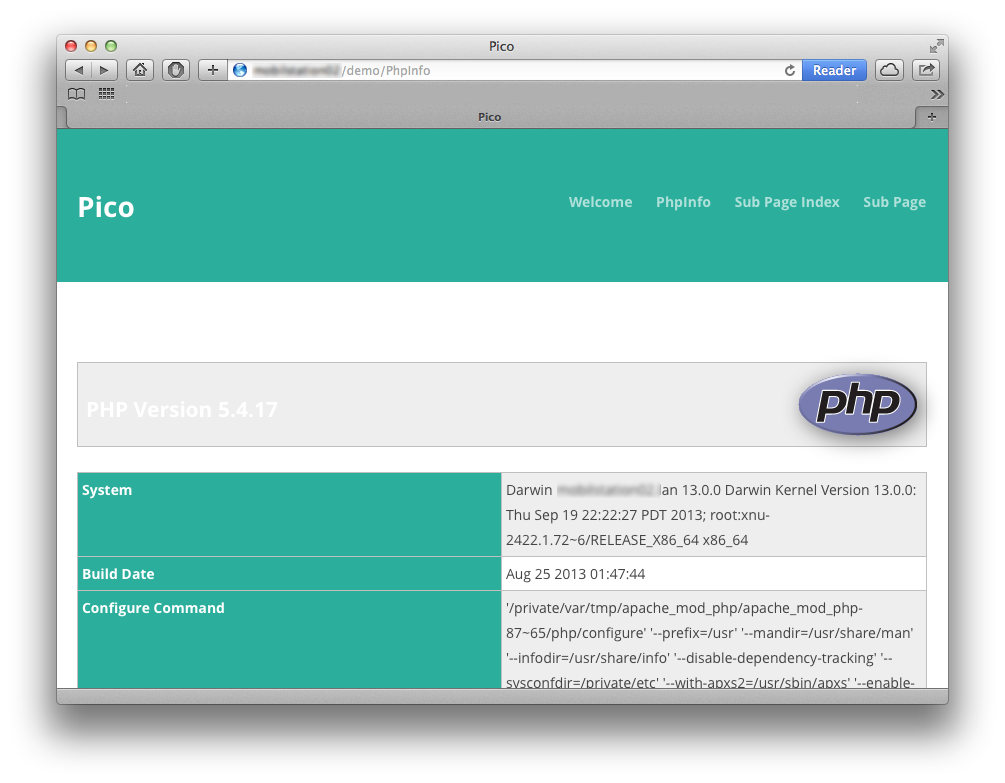
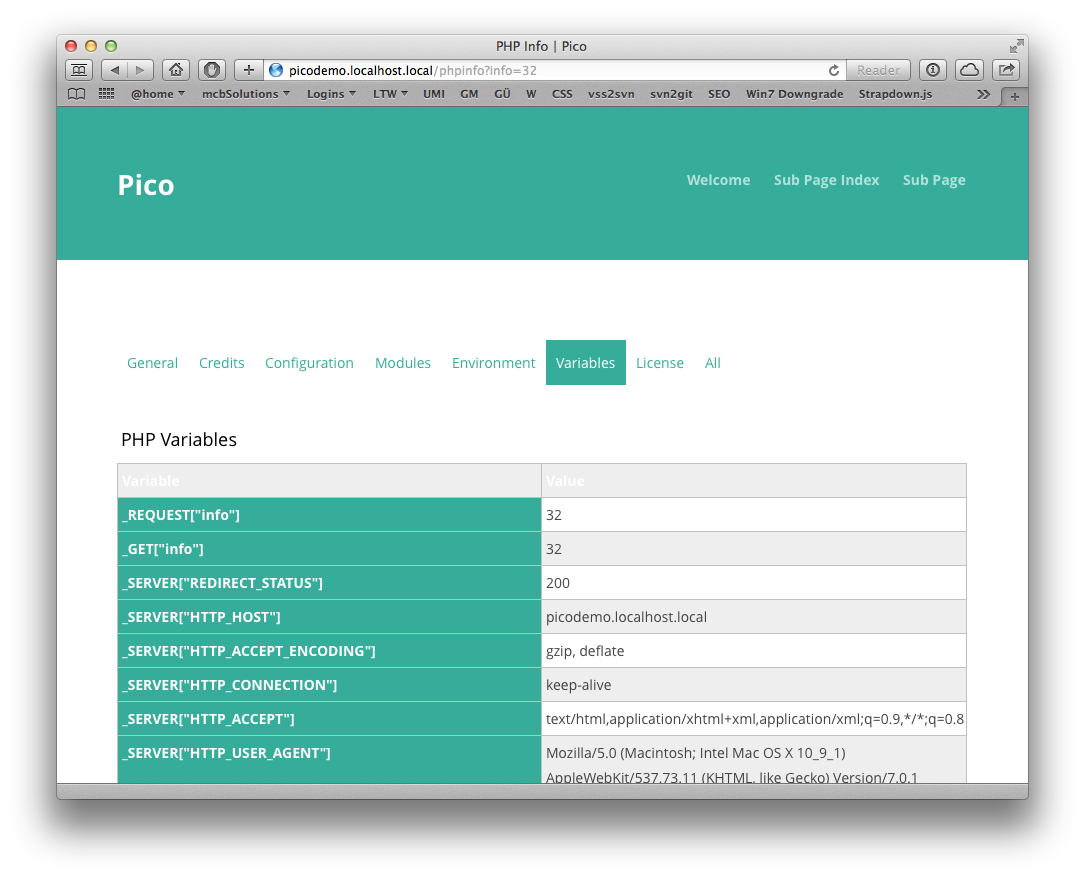
v0.4
+ Added tabs
+ Added phpcredits

diff --git a/mcb_PhpInfo/style.css b/mcb_PhpInfo/style.css
@@ -9,9 +9,10 @@
 #phpinfo th {font-weight: bolder}
 #phpinfo h1 {font-size: 150%; padding: 4px;}
 #phpinfo h2 {font-size: 125%;}
-#phpinfo .h, #phpinfo .p, #phpinfo .e {text-align: left;color: white;font-weight: bold; padding: 4px;}
+#phpinfo .e {text-align: left;color: white;font-weight: bold; padding: 4px;}
+#phpinfo h1.p {text-align: left; color: gray; font-weight: bold; padding: 4px;}
 #phpinfo .e {background-color: #2EAE9B; min-width: 200px;}
-#phpinfo .h {background-color: #2EAE9B; vertical-align: middle;}
+#phpinfo .h {background-color: #2EAE9B; vertical-align: middle; color: gray;}
 #phpinfo .v { min-width: 200px;}
 #phpinfo img {
    /* Source: http://stackoverflow.com/a/12921987 */
@@ -21,3 +22,16 @@
    filter: "progid:DXImageTransform.Microsoft.Dropshadow(OffX=4, OffY=4, Color='#444')";
 }
 #phpinfo hr {display: none}
+
+/* Navigation
+ul.nav-tabs {display: table; list-style-type: none; margin: 0; padding: 0;}
+ul.nav-tabs>li {float: left;padding: 10px;}
+ul.nav-tabs>li:hover {background-color: #fff;}
+ul.nav-tabs>li.active {background-color: #2EAE9B; }
+ul.nav-tabs>li.active a {color: #fff;}
+ul { overflow: auto; }
+ul.nav-tabs li:hover > ul {display: block;position: absolute;background-color: #fff;}
+ul.dropdown-menu {display: none;list-style: none;padding: 0;}
+ul.dropdown-menu li {float: none;position: relative;background-color: #2EAE9B;padding: 5px;padding-left: 10px;padding-right: 10px;}
+ul.dropdown-menu li a {color: #fff;}
+ul.dropdown-menu li a:hover {color:#000;}

diff --git a/mcb_PhpInfo/mcb_phpinfo.php b/mcb_PhpInfo/mcb_phpinfo.php
@@ -2,48 +2,137 @@
 
 /**
  * @see README.mb for further details
- * 
+ *
  * @package Pico
  * @subpackage mcb PhpInfo
- * @version 0.3
+ * @version 0.4
  * @author mcbSolutions.at <dev@mcbsolutions.at>
  */
 class mcb_PhpInfo {
-   
+
 	private $url_is_phpinfo;
-   
+	private $use_section = false;
+
+   private $info = array(
+         INFO_GENERAL => 'General',
+         INFO_CREDITS => 'Credits',
+         INFO_CONFIGURATION => 'Configuration',
+         INFO_MODULES => 'Modules',
+         INFO_ENVIRONMENT => 'Environment',
+         INFO_VARIABLES => 'Variables',
+         INFO_LICENSE => 'License',
+         INFO_ALL => 'All',
+      );
+   private $credit = array(
+         CREDITS_GENERAL => 'General',
+//       CREDITS_FULLPAGE => 'Full page',
+         CREDITS_DOCS => 'Docs',
+         CREDITS_MODULES => 'Modules',
+         CREDITS_GROUP => 'Group',
+         CREDITS_SAPI => 'Sapi',
+         CREDITS_ALL => 'All',
+      );
+   public function config_loaded(&$settings)
+   {
+      if(isset($settings['mcb_use_section']))
+      	$this->use_section = &$settings['mcb_use_section'];
+	}
 	public function request_url(&$url)
 	{
-	   $this->url_is_phpinfo = strtolower(str_replace(" ", "", $url)) == 'phpinfo';
+      $this->url_is_phpinfo = strpos(strtolower($url), 'phpinfo') !== false;
 	}
-	
+
 	public function after_404_load_content(&$file, &$content)
 	{
+	   if(!$this->url_is_phpinfo)
+         return;
+
 		$content = "";
 	}
-	
+
 	public function after_load_content(&$file, &$content)
 	{
       if(!$this->url_is_phpinfo)
          return;
-      
+
+
+		if($this->use_section) {
+	      $info = isset($_GET['info'  ]) ? $_GET['info'  ] : INFO_ALL;
+	      $cred = isset($_GET['credit']) ? $_GET['credit'] : CREDITS_GENERAL;
+
+	      $content .= '<ul class="nav nav-tabs nav-justified">';
+	      foreach ($this->info as $key => $value) {
+	         if($key==INFO_CREDITS) {
+	            if($key==$info) $content .= "<li class=\"active dropdown\"><a class=\"dropdown-toggle\" data-toggle=\"dropdown\" href=\"#\">$value <span class=\"caret\"></span></a>";
+	            else            $content .= "<li class=\"       dropdown\"><a class=\"dropdown-toggle\" data-toggle=\"dropdown\" href=\"#\">$value <span class=\"caret\"></span></a>";
+
+	            $content .= '<ul class="dropdown-menu" role="menu">';
+	            foreach ($this->credit as $ck => $cv) {
+	               if($ck==$cred) $content .= "<li class=\"active\"><a>$cv</a></li>";
+	               else           $content .= "<li><a href=\"?info=$key&amp;credit=$ck\">$cv</a></li>";
+	            }
+	            $content .= '</ul></li>';
+	         } else
+	         if($key==$info) $content .= "<li class=\"active\"><a                    >$value</a></li>";
+	         else            $content .= "<li                 ><a href=\"?info=$key\">$value</a></li>";
+	      }
+	      $content .= '</ul>';
+      } else {
+      	$info = INFO_ALL;
+      }
+
+      if($info == INFO_CREDITS) $content .= $this->phpCredit($cred);
+      else                      $content .= $this->phpInfo($info);
+   }
+
+   private function phpInfo($info = INFO_ALL)
+   {
       // get the info
       ob_start();
-      phpinfo();
+      phpinfo($info);
       $phpinfo = ob_get_contents();
       ob_end_clean();
-      
+
       // modify the div
-      $dom = DOMDocument::loadHTML($phpinfo);
+      // http://stackoverflow.com/questions/8218230/php-domdocument-loadhtml-not-encoding-utf-8-correctly
+      $dom = DOMDocument::loadHTML('<?xml encoding="utf-8" ?>' . $phpinfo);
       $div = $dom->getElementsByTagname('div')->item(0);
       $div->removeAttribute('class');
       $div->setAttribute('id', 'phpinfo');
 
-      $content .= $dom->saveHTML($div);
+      return $dom->saveHTML($div);
    }
-   /* debug   public function after_render(&$output)
+
+   private function phpCredit($what = CREDITS_ALL)
+   {
+      $what = $what & ~CREDITS_FULLPAGE;
+
+      // get the info
+      ob_start();
+      phpcredits($what);
+      $phpinfo = ob_get_contents();
+      ob_end_clean();
+
+      // modify the div
+      // http://stackoverflow.com/questions/8218230/php-domdocument-loadhtml-not-encoding-utf-8-correctly
+      $dom = DOMDocument::loadHTML('<?xml encoding="utf-8" ?>' . "<div id=\"phpinfo\">$phpinfo</div>");
+      $div = $dom->getElementsByTagname('div')->item(0);
+
+      $caption = $dom->getElementsByTagname('h1')->item(0);
+      $caption->parentNode->removeChild($caption);
+
+      return $dom->saveHTML($div);
+   }
+   public function before_render(&$twig_vars, &$twig, &$template)
+   {
+      if(!$this->url_is_phpinfo)
+         return;
+
+      if($twig_vars['meta']['title'] == '') $twig_vars['meta']['title'] = "PHP Info";
+   }
+   /* debug
+   public function after_render(&$output)
    {
       $output = $output . "<pre style=\"background-color:white;\">".htmlentities(print_r($this,1))."</pre>";
    }*/
-
 }

diff --git a/mcb_PhpInfo/README.md b/mcb_PhpInfo/README.md
@@ -1,22 +1,35 @@
 PHP Info
-=============================================================================
+===============================================================
 
 Released under the [MIT license](http://opensource.org/licenses/MIT). Copyright (c) 2013 mcbSolutions.at
 
-**Version** 0.3; Please report errors.
+**Version** 0.4; Please report errors.
 
-**Displays the `phpinfo()` within you site.**
+**Displays the `phpinfo(...)` and `phpcredits(...)` within you site.**
 
 
 Installation
-=============================================================================
+===============================================================
 1. Copy/save the plugin into `plugins` folder
 2. If you like to add text before, create a file called `phpinfo.md` or `PhpInfo.md`.
-3. If you like to modify the styles: I wrapped a `<div id="phpinfo">` around the phpinfo(). 
-   (see style.css for an example) or simply include 
-   `<link rel="stylesheet" href="{{ base_url }}/plugins/mcb_PhpInfo/style.css" media="screen,projection,print">` 
+3. If you like to modify the styles: I wrapped a `<div id="phpinfo">` around the phpinfo().
+   (see style.css for an example) or simply include
+   `<link rel="stylesheet" href="{{ base_url }}/plugins/mcb_PhpInfo/style.css" media="screen,projection,print">`
    in your templates head tag
-    
+
+Optional: Config
+-----------------------------------------------------------------------------
+
+### mcb_use_section
+**boolean**
+
+Activate navigation to sections. When set to false (default) all information from phpinfo() will be displayed.
+
+	$config['mcb_use_section']		= false;
+	
+
+
+
 Screenshot
-=============================================================================
+===============================================================
 ![Screenshot of PHP Info](./Screenshot.png)
